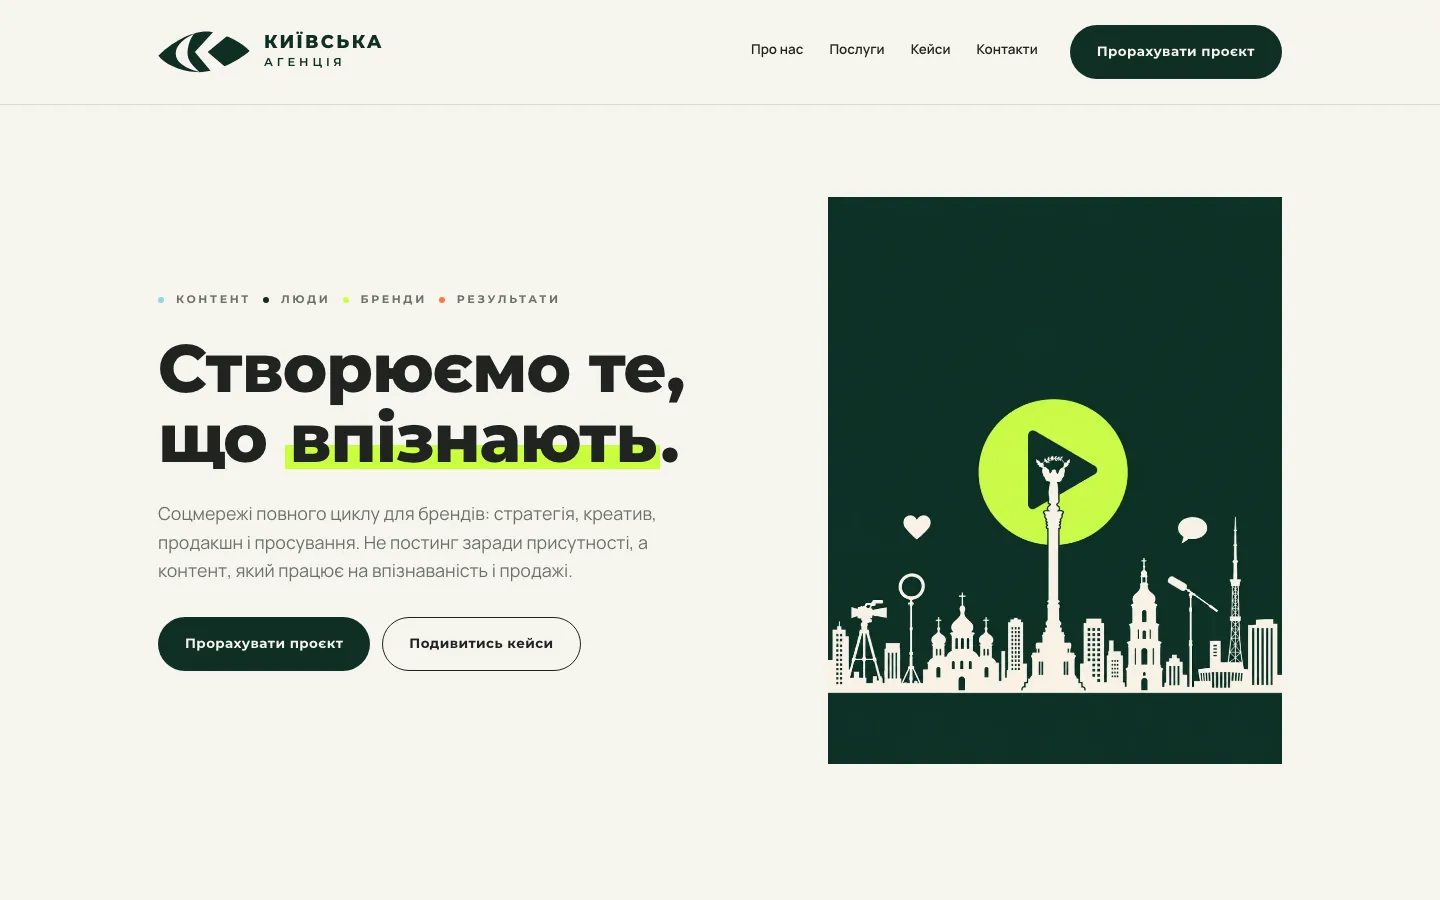
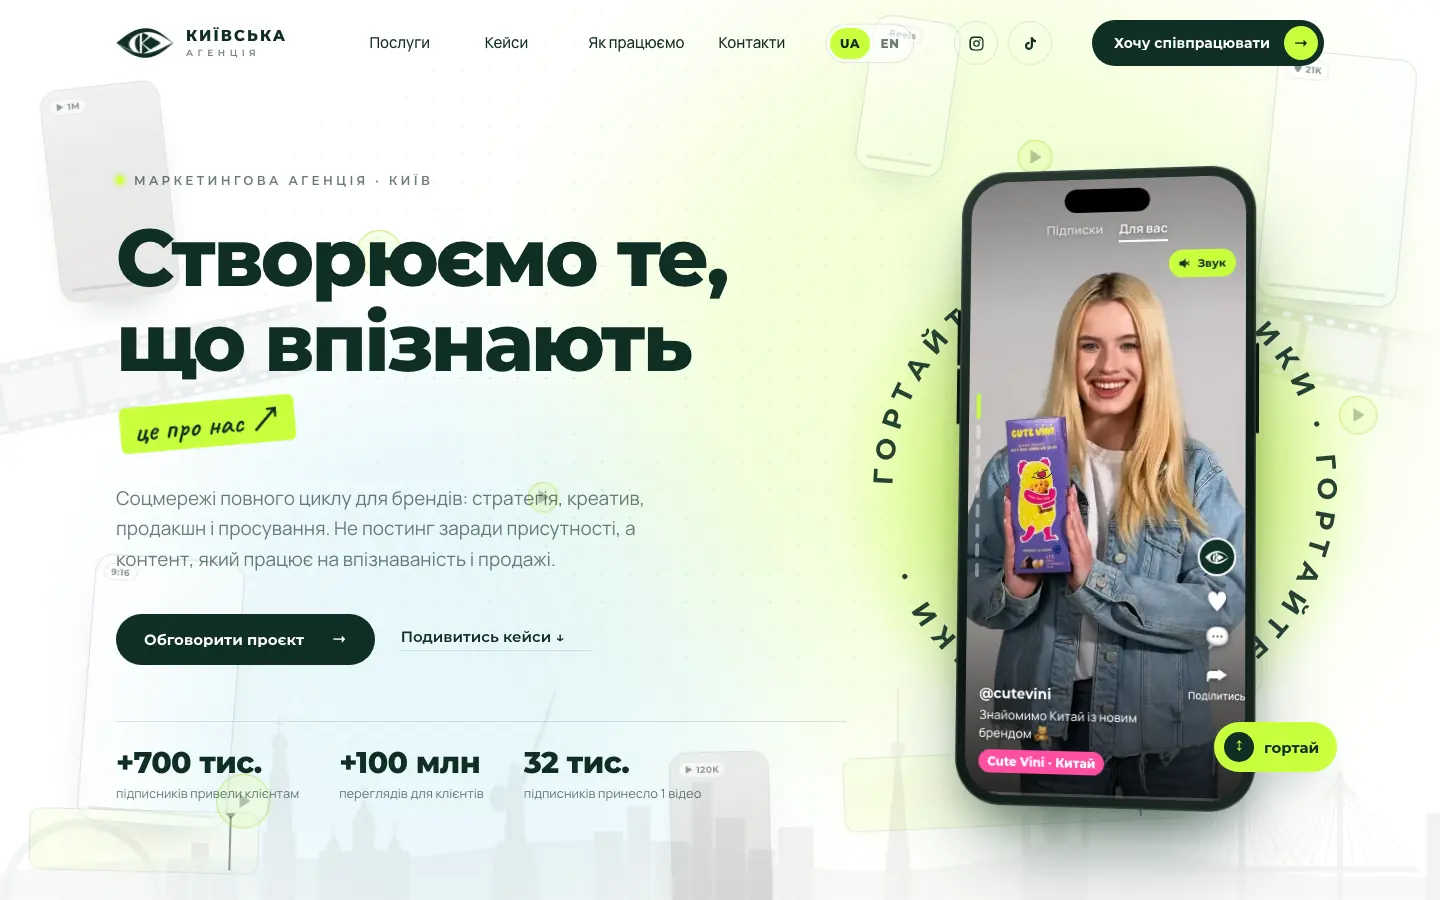
fix: refresh the Kyiv Agency preview to the current design
The card still showed the September launch hero; the site has since
been redesigned with the reel phone, stats row, and new navigation.

The capture is taken with prefers-reduced-motion forced on. Without
it the once-per-session intro loader is still mid-transition when the
screenshot fires and the headline never makes it into the frame.

The modal note claimed the site sends X-Frame-Options: SAMEORIGIN.
It no longer does, so the note now just says the preview shows the
2026 design. The card stays a snapshot rather than a live embed so
it keeps showing this version whatever happens to the domain later.
The year stays a plain 2026.

diff --git a/ua/index.html b/ua/index.html
@@ -388,9 +388,9 @@
         </div>
 
         <div class="featured-sites">
-          <button class="site-card large" type="button" data-preview-title="Київська Агенція" data-preview-role="Сайт агенції" data-preview-status="Live" data-preview-year="2026" data-preview-domain="kyiv.agency" data-preview-url="https://kyiv.agency" data-preview-embed="false" data-preview-note="Сайт віддає X-Frame-Options: SAMEORIGIN, тому тут показано збережений preview, а пряме посилання на live-сайт лишається доступним." data-preview-image="/previews/kyiv-agency.webp" data-preview-summary="Односторінковий сайт агенції соцмереж повного циклу, зроблений під ключ: дизайн-система, статична збірка без бандлера, хостинг на Cloudflare Pages, власний домен і поштова маршрутизація, serverless-форма заявки." data-reveal>
+          <button class="site-card large" type="button" data-preview-title="Київська Агенція" data-preview-role="Сайт агенції" data-preview-status="Live" data-preview-year="2026" data-preview-domain="kyiv.agency" data-preview-url="https://kyiv.agency" data-preview-embed="false" data-preview-note="Тут показано збережений preview дизайну 2026 року, а пряме посилання на live-сайт лишається доступним." data-preview-image="/previews/kyiv-agency.webp?v=20261120" data-preview-summary="Односторінковий сайт агенції соцмереж повного циклу, зроблений під ключ: дизайн-система, статична збірка без бандлера, хостинг на Cloudflare Pages, власний домен і поштова маршрутизація, serverless-форма заявки." data-reveal>
             <span class="preview-link">
-              <img src="/previews/kyiv-agency.webp" alt="Прев’ю сайту kyiv.agency" decoding="async" loading="lazy">
+              <img src="/previews/kyiv-agency.webp?v=20261120" alt="Прев’ю сайту kyiv.agency" decoding="async" loading="lazy">
             </span>
             <div>
               <p class="role">Сайт агенції</p>

diff --git a/index.html b/index.html
@@ -387,9 +387,9 @@
         </div>
 
         <div class="featured-sites">
-          <button class="site-card large" type="button" data-preview-title="Kyiv Agency" data-preview-role="Agency website" data-preview-status="Live" data-preview-year="2026" data-preview-domain="kyiv.agency" data-preview-url="https://kyiv.agency" data-preview-embed="false" data-preview-note="This site sends X-Frame-Options: SAMEORIGIN, so this portfolio shows a captured preview here and keeps the live-site link available." data-preview-image="/previews/kyiv-agency.webp" data-preview-summary="One-page site for a full-cycle social media agency, shipped end to end: design system, static build with no bundler, Cloudflare Pages hosting, custom domain and mail routing, and a serverless contact form." data-reveal>
+          <button class="site-card large" type="button" data-preview-title="Kyiv Agency" data-preview-role="Agency website" data-preview-status="Live" data-preview-year="2026" data-preview-domain="kyiv.agency" data-preview-url="https://kyiv.agency" data-preview-embed="false" data-preview-note="This portfolio shows a captured preview of the 2026 design and keeps the live-site link available." data-preview-image="/previews/kyiv-agency.webp?v=20261120" data-preview-summary="One-page site for a full-cycle social media agency, shipped end to end: design system, static build with no bundler, Cloudflare Pages hosting, custom domain and mail routing, and a serverless contact form." data-reveal>
             <span class="preview-link">
-              <img src="/previews/kyiv-agency.webp" alt="Website preview for kyiv.agency" decoding="async" loading="lazy">
+              <img src="/previews/kyiv-agency.webp?v=20261120" alt="Website preview for kyiv.agency" decoding="async" loading="lazy">
             </span>
             <div>
               <p class="role">Agency website</p>
